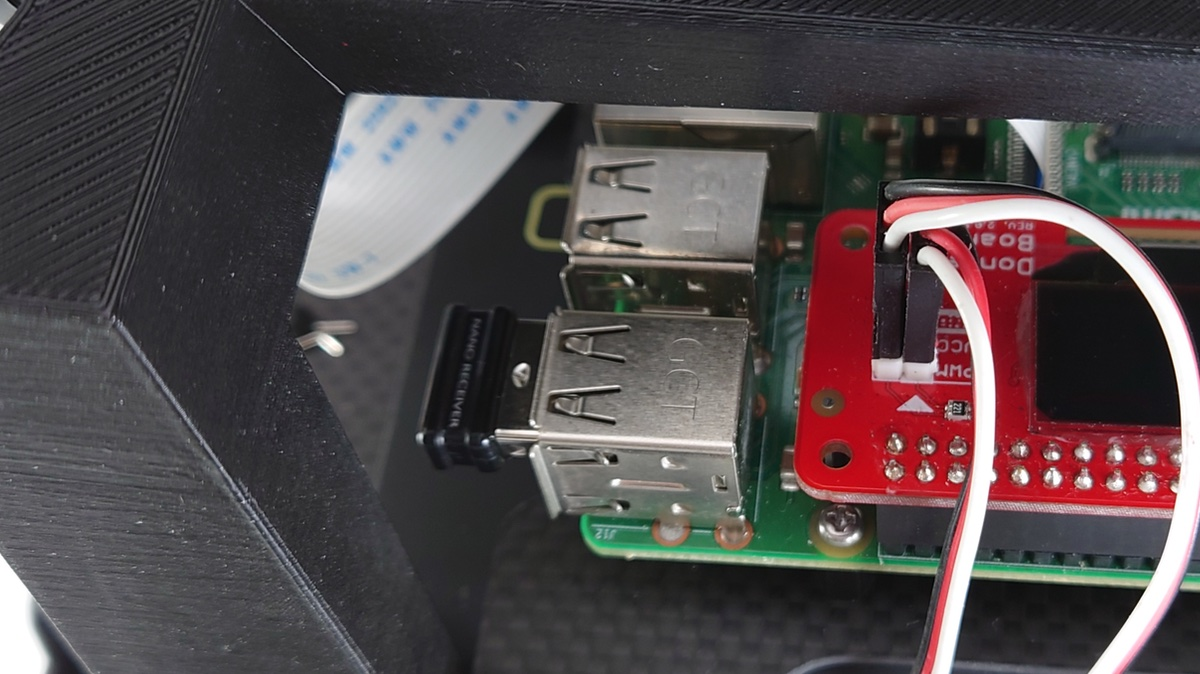
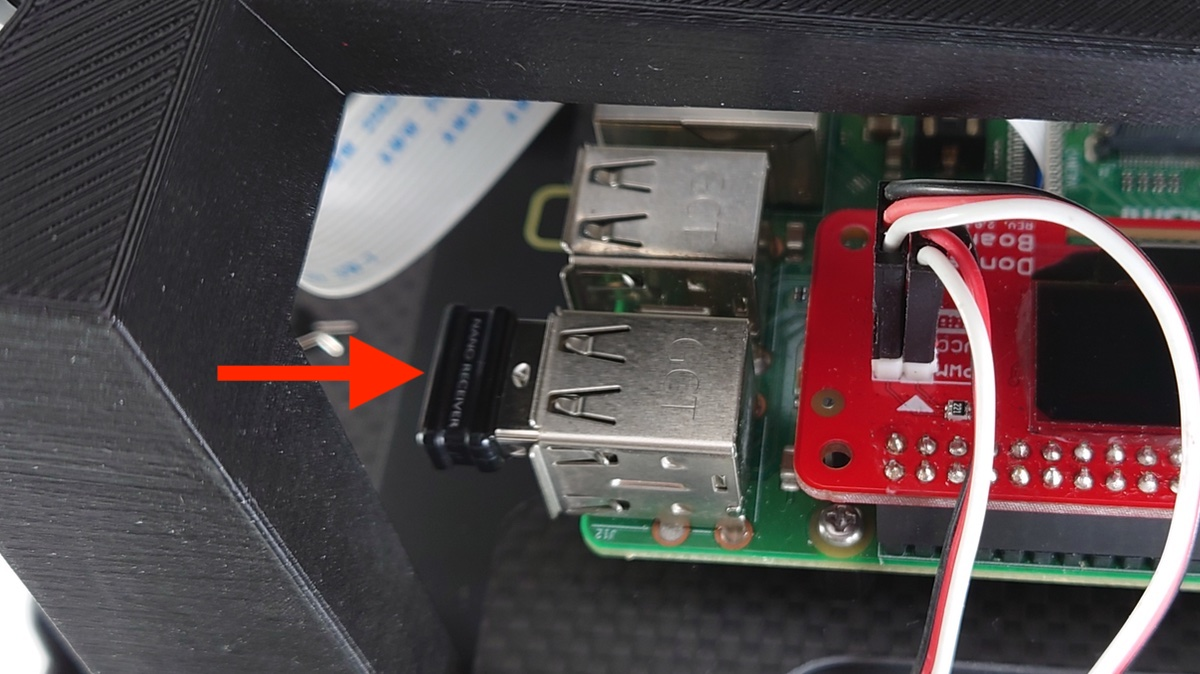
Deployed 3c7c628 with MkDocs version: 1.1.2

Changed region(s): [[0.185, 0.4985, 0.37, 0.6231]]

diff --git a/2.DonkeyCar3の個別設定/01.donkey_install/index.html b/2.DonkeyCar3の個別設定/01.donkey_install/index.html
@@ -1435,13 +1435,13 @@
 <h2 id="hostname">Hostnameの修正</h2>
 <p>Defaultでは、Macユーザは <code>ssh pi@raspberrypi.local</code> でRaspberryPiに接続できます。全員同じ名前になると、区別がつかないので、<code>hostname</code>, <code>hosts</code> の 2箇所のhost名を書き直し、独自の名前で呼び出せるようにしておきます。今回は、<code>raspberrypi</code>から<code>donkeypi</code>に書き直します。</p>
 <h3 id="hostname_1">hostnameの修正</h3>
-<div class=md-fenced-code-tabs id=tab-tab-group-2><input name=tab-group-2 type=radio id=tab-group-2-0_hvdnyk5cg6gvdq8 checked=checked class=code-tab data-lang aria-controls=tab-group-2-0_hvdnyk5cg6gvdq8-panel role=tab><label for=tab-group-2-0_hvdnyk5cg6gvdq8 class=code-tab-label data-lang id=tab-group-2-0_hvdnyk5cg6gvdq8-label></label><div class=code-tabpanel role=tabpanel data-lang id=tab-group-2-0_hvdnyk5cg6gvdq8-panel aria-labelledby=tab-group-2-0_hvdnyk5cg6gvdq8-label><table class=codehilitetable><tr><td class=linenos><div class=linenodiv><pre>1</pre></div></td><td class=code><div class=codehilite><pre><span></span><code><span class=err>sudo vi /etc/hostname</span>
-</code></pre></div></td></tr></table></div><input name=tab-group-2 type=radio id=tab-group-2-1_paroe18pevpm387 class=code-tab data-lang aria-controls=tab-group-2-1_paroe18pevpm387-panel role=tab><label for=tab-group-2-1_paroe18pevpm387 class=code-tab-label data-lang id=tab-group-2-1_paroe18pevpm387-label></label><div class=code-tabpanel role=tabpanel data-lang id=tab-group-2-1_paroe18pevpm387-panel aria-labelledby=tab-group-2-1_paroe18pevpm387-label><table class=codehilitetable><tr><td class=linenos><div class=linenodiv><pre>1</pre></div></td><td class=code><div class=codehilite><pre><span></span><code><span class=err>donkeypi</span>
+<div class=md-fenced-code-tabs id=tab-tab-group-2><input name=tab-group-2 type=radio id=tab-group-2-0_s0xrixqz1gemb4n checked=checked class=code-tab data-lang aria-controls=tab-group-2-0_s0xrixqz1gemb4n-panel role=tab><label for=tab-group-2-0_s0xrixqz1gemb4n class=code-tab-label data-lang id=tab-group-2-0_s0xrixqz1gemb4n-label></label><div class=code-tabpanel role=tabpanel data-lang id=tab-group-2-0_s0xrixqz1gemb4n-panel aria-labelledby=tab-group-2-0_s0xrixqz1gemb4n-label><table class=codehilitetable><tr><td class=linenos><div class=linenodiv><pre>1</pre></div></td><td class=code><div class=codehilite><pre><span></span><code><span class=err>sudo vi /etc/hostname</span>
+</code></pre></div></td></tr></table></div><input name=tab-group-2 type=radio id=tab-group-2-1_pkdm5he58bqetga class=code-tab data-lang aria-controls=tab-group-2-1_pkdm5he58bqetga-panel role=tab><label for=tab-group-2-1_pkdm5he58bqetga class=code-tab-label data-lang id=tab-group-2-1_pkdm5he58bqetga-label></label><div class=code-tabpanel role=tabpanel data-lang id=tab-group-2-1_pkdm5he58bqetga-panel aria-labelledby=tab-group-2-1_pkdm5he58bqetga-label><table class=codehilitetable><tr><td class=linenos><div class=linenodiv><pre>1</pre></div></td><td class=code><div class=codehilite><pre><span></span><code><span class=err>donkeypi</span>
 </code></pre></div></td></tr></table></div></div>
 
 <h3 id="hosts">hostsの修正</h3>
-<div class=md-fenced-code-tabs id=tab-tab-group-3><input name=tab-group-3 type=radio id=tab-group-3-0_x7t2k8pnzi4wb3j checked=checked class=code-tab data-lang aria-controls=tab-group-3-0_x7t2k8pnzi4wb3j-panel role=tab><label for=tab-group-3-0_x7t2k8pnzi4wb3j class=code-tab-label data-lang id=tab-group-3-0_x7t2k8pnzi4wb3j-label></label><div class=code-tabpanel role=tabpanel data-lang id=tab-group-3-0_x7t2k8pnzi4wb3j-panel aria-labelledby=tab-group-3-0_x7t2k8pnzi4wb3j-label><table class=codehilitetable><tr><td class=linenos><div class=linenodiv><pre>1</pre></div></td><td class=code><div class=codehilite><pre><span></span><code><span class=err>sudo vi /etc/hosts</span>
-</code></pre></div></td></tr></table></div><input name=tab-group-3 type=radio id=tab-group-3-1_trmecoei15vyhpa class=code-tab data-lang aria-controls=tab-group-3-1_trmecoei15vyhpa-panel role=tab><label for=tab-group-3-1_trmecoei15vyhpa class=code-tab-label data-lang id=tab-group-3-1_trmecoei15vyhpa-label></label><div class=code-tabpanel role=tabpanel data-lang id=tab-group-3-1_trmecoei15vyhpa-panel aria-labelledby=tab-group-3-1_trmecoei15vyhpa-label><table class=codehilitetable><tr><td class=linenos><div class=linenodiv><pre>1
+<div class=md-fenced-code-tabs id=tab-tab-group-3><input name=tab-group-3 type=radio id=tab-group-3-0_6zutvb8cqdf8xvz checked=checked class=code-tab data-lang aria-controls=tab-group-3-0_6zutvb8cqdf8xvz-panel role=tab><label for=tab-group-3-0_6zutvb8cqdf8xvz class=code-tab-label data-lang id=tab-group-3-0_6zutvb8cqdf8xvz-label></label><div class=code-tabpanel role=tabpanel data-lang id=tab-group-3-0_6zutvb8cqdf8xvz-panel aria-labelledby=tab-group-3-0_6zutvb8cqdf8xvz-label><table class=codehilitetable><tr><td class=linenos><div class=linenodiv><pre>1</pre></div></td><td class=code><div class=codehilite><pre><span></span><code><span class=err>sudo vi /etc/hosts</span>
+</code></pre></div></td></tr></table></div><input name=tab-group-3 type=radio id=tab-group-3-1_idowutuvo1j0bxk class=code-tab data-lang aria-controls=tab-group-3-1_idowutuvo1j0bxk-panel role=tab><label for=tab-group-3-1_idowutuvo1j0bxk class=code-tab-label data-lang id=tab-group-3-1_idowutuvo1j0bxk-label></label><div class=code-tabpanel role=tabpanel data-lang id=tab-group-3-1_idowutuvo1j0bxk-panel aria-labelledby=tab-group-3-1_idowutuvo1j0bxk-label><table class=codehilitetable><tr><td class=linenos><div class=linenodiv><pre>1
 2
 3
 4

diff --git a/1.DonkeyCar3の構築/00.DCK-R2/index.html b/1.DonkeyCar3の構築/00.DCK-R2/index.html
@@ -1476,10 +1476,15 @@
 <p>ラジコンのボディーを外し、2本のPWMの線を、プロポ受信機から取り外します。</p>
 <p><img alt="" src="../img/carkit000.png" /></p>
 <p>車体のESC<a href="">*</a>とサーボからでている線とスイッチの位置を確認します。</p>
+<p>プロポ受信機は使用しません。</p>
 <div class="admonition note">
 <p class="admonition-title">ESCとは？</p>
 </div>
 <p>ESCとはエレクトリックスピードコントローラーの略で、スピードコントローラーまたはアンプと呼ばれる。RCカーのモーターを制御する装置のこと。</p>
+<div class="admonition note">
+<p class="admonition-title">サーボとは？</p>
+</div>
+<p>サーボとは、命令を受けて回転運動するモータのこと。ドンキーカーでは車輪を操舵するのに使われる。さまざまな回転速度、トルク選べモーター単体よりも制御しやすく扱いやすい。</p>
 <p><img alt="" src="../img/kit002.png" /></p>
 <div class="admonition warning">
 <p class="admonition-title">注意点</p>
@@ -1509,7 +1514,7 @@
 <p>付属のプロポは使用しません。ベース車両を箱から取り出します。</p>
 <hr>
 
-<p>ボディーマウントの高さを調整します。精密ドライバーでねじを外し、高さを一番低い位置へ調整します。</p>
+<p>初期の状態の場合、ボディが高いので、ボディーマウントの高さを調整します。精密ドライバーでねじを外し、高さを一番低い位置へ調整します。</p>
 <p><img alt="" src="../img/DCK-R2/DCK_LE1_1.jpg" /></p>
 <p>再びねじ止めします。左右どちらも一番低くします。</p>
 <p><img alt="" src="../img/DCK-R2/DCK2_LE1_2.jpg" /></p>
@@ -1700,7 +1705,7 @@
 <p><img alt="" src="../img/DCK-R2/DCK2_LE5_5.jpg" /></p>
 <p>ベースプレート前方の２つの穴にネジを差し込んで仮に締めます。</p>
 <p><img alt="" src="../img/DCK-R2/DCK2_LE5_6.jpg" /></p>
-<p>アームにナットM3（３種）を配置します。</p>
+<p>アームに六角ナットM3（３種）1個を配置します。</p>
 <p><img alt="" src="../img/DCK-R2/DCK2_LE5_7.jpg" /></p>
 <p>なべねじM3*10で締めます。</p>
 <p><img alt="" src="../img/DCK-R2/DCK2_LE5_8.jpg" /></p>
@@ -1711,12 +1716,14 @@
 <h3 id="6">6.ドンキーカーとベースプレートを結合</h3>
 <p>車体にマウントします。サーボモーターがある方が前となります。</p>
 <p><img alt="" src="../img/DCK-R2/DCK2_LE6_1.jpg" /></p>
+<p><img alt="" src="../img/DCK-R2/DCK2_LE6_1_1.jpg" /></p>
 <p>RCピンで固定します。</p>
 <p>後</p>
 <p><img alt="" src="../img/DCK-R2/DCK2_LE6_2.jpg" /></p>
 <p>前</p>
 <p><img alt="" src="../img/DCK-R2/DCK2_LE6_3.jpg" /></p>
 <h3 id="7">7.信号ケーブルを接続します。</h3>
+<p><img alt="" src="../img/DCK-R2/DCK2_LE7_0.jpg" /></p>
 <p>それぞれ、ベース車体から出ている信号線（ESC,サーボ）を写真のように、赤い基板の制御基板へ接続します。</p>
 <p><img alt="" src="../img/DCK-R2/DCK2_LE7_1.jpg" /></p>
 <p>ESC（スピードコントローラー）の線は０へ、サーボの線は、１へ接続します。</p>
@@ -1727,8 +1734,10 @@
 <p>バッテリーと接続します。</p>
 <p><img alt="" src="../img/DCK-R2/DCK2_LE8_2.jpg" /></p>
 <h3 id="9raspberry-pi">９.Raspberry Piの電源ケーブルを接続します。</h3>
-<p>モバイルバッテリーにUSBケーブルを刺します。ラズパイ側にはUSBケーブルまだ刺しません。（SDカード設定後）</p>
+<p>モバイルバッテリーにUSBケーブルを刺します。</p>
 <p><img alt="" src="../img/DCK-R2/DCK2_LE9_1.jpg" /></p>
+<p>ラズパイ側にはUSBケーブルまだ刺しません。（SDカード設定後）</p>
+<p><img alt="" src="../img/DCK-R2/DCK2_LE9_2.jpg" /></p>
 <p>USBケーブルはラズパイにまだつなぎません。付属のSDカードをパソコンに接続してWifi設定したあとにSDカードをラズパイに刺してから、ラズパイの電源を投入します。くわしくは次の章で解説します。</p>
 <h3 id="10usb">１０.ゲームパットUSBドングルを接続します。</h3>
 <p>ゲームパッドのUSBドングルを任意のUSBポートへ接続します。</p>
@@ -1736,7 +1745,7 @@
 <h3 id="11">１１.注意事項</h3>
 <p>走行しない時は、こまめにRCカーの電源を切りましょう。電源を消し忘れると過放電によるバッテリーの故障や寿命を短くなる場合があります。</p>
 <p>ドンキーカーのアームを片手掴んだり、アームの下に、指を深くいれると基板の突起物により怪我をする危険性があります。必ず車体の両側を両手で持ちましょう。</p>
-<p>完成イメージ（OLEDは、SDカードを入れないと表示されません。）</p>
+<p>完成イメージ（OLEDは、SDカードを入れないと表示されません。SDカードのWifi設定後）</p>
 <p><img alt="" src="../img/DCK-R2/DCK2_LE10_1.jpg" /></p>
 <p>組み立ては以上になります。</p>
 <p>お疲れ様でした。</p>

diff --git a/9.FaBoCar/01.pwm/index.html b/9.FaBoCar/01.pwm/index.html
@@ -1128,7 +1128,7 @@
                 
                 <h1 id="servo">Servoの制御</h1>
 <h2 id="servo_1">Servoの制御</h2>
-<div class=md-fenced-code-tabs id=tab-tab-group-0><input name=tab-group-0 type=radio id=tab-group-0-0_ns3nzv68gzl9zgx checked=checked class=code-tab data-lang aria-controls=tab-group-0-0_ns3nzv68gzl9zgx-panel role=tab><label for=tab-group-0-0_ns3nzv68gzl9zgx class=code-tab-label data-lang id=tab-group-0-0_ns3nzv68gzl9zgx-label></label><div class=code-tabpanel role=tabpanel data-lang id=tab-group-0-0_ns3nzv68gzl9zgx-panel aria-labelledby=tab-group-0-0_ns3nzv68gzl9zgx-label><table class=codehilitetable><tr><td class=linenos><div class=linenodiv><pre>1
+<div class=md-fenced-code-tabs id=tab-tab-group-0><input name=tab-group-0 type=radio id=tab-group-0-0_swpbdw8a04gbv6e checked=checked class=code-tab data-lang aria-controls=tab-group-0-0_swpbdw8a04gbv6e-panel role=tab><label for=tab-group-0-0_swpbdw8a04gbv6e class=code-tab-label data-lang id=tab-group-0-0_swpbdw8a04gbv6e-label></label><div class=code-tabpanel role=tabpanel data-lang id=tab-group-0-0_swpbdw8a04gbv6e-panel aria-labelledby=tab-group-0-0_swpbdw8a04gbv6e-label><table class=codehilitetable><tr><td class=linenos><div class=linenodiv><pre>1
 2</pre></div></td><td class=code><div class=codehilite><pre><span></span><code><span class=err>git clone https://github.com/FaBoPlatform/FaBoPWM-PCA9685-Python</span>
 <span class=err>pip install FaBoPWM-PCA9685-Python/</span>
 </code></pre></div></td></tr></table></div><input name=tab-group-0 type=radio id=tab-group-0-1_python class=code-tab data-lang=python aria-controls=tab-group-0-1_python-panel role=tab><label for=tab-group-0-1_python class=code-tab-label data-lang=python id=tab-group-0-1_python-label>Python</label><div class=code-tabpanel role=tabpanel data-lang=python id=tab-group-0-1_python-panel aria-labelledby=tab-group-0-1_python-label><table class=codehilitetable><tr><td class=linenos><div class=linenodiv><pre> 1
